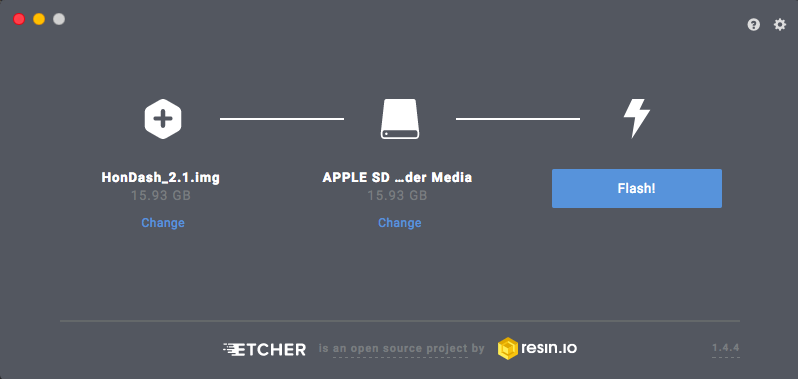
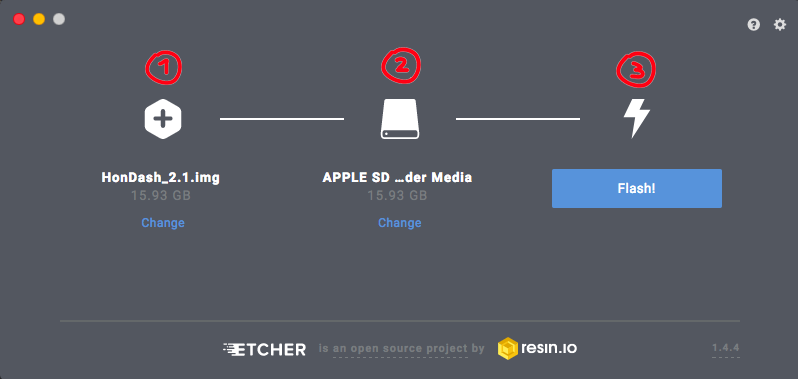
improve software instructions

Changed region(s): [[0.7519, 0.1161, 0.8421, 0.2322], [0.4812, 0.1161, 0.5414, 0.2322], [0.1805, 0.1161, 0.2406, 0.2322]]

diff --git a/docs/SOFTWARE.md b/docs/SOFTWARE.md
@@ -5,8 +5,10 @@ Download the latest image:
 * [HonDash v. 2.1.1](https://www.dropbox.com/s/eajdt88avvtk086/HonDash_v2.1.1.img?dl=0)
 * [HonDash v. 2.1.0](https://www.dropbox.com/s/509qwhykxto52ex/HonDash_2.1.img?dl=0)
 
-Use your prefered image burning tool to load the image into a **16GB** microSD card, for now not other sizes are compatible.
-We recommend _SanDisk Ultra Class 10_ and _[Etcher](https://www.balena.io/etcher/)_, just download it and follow this 3 steps:
+Download also _[Etcher](https://www.balena.io/etcher/)_ and install it.
+Use a **16GB** microSD card, for now not other sizes are compatible, we recommend _SanDisk Ultra Class 10_ 
+
+Follow this 3 steps:
 1. Source your downloaded HonDash .img file
 2. Choose your SD card reader
 3. Press flash
